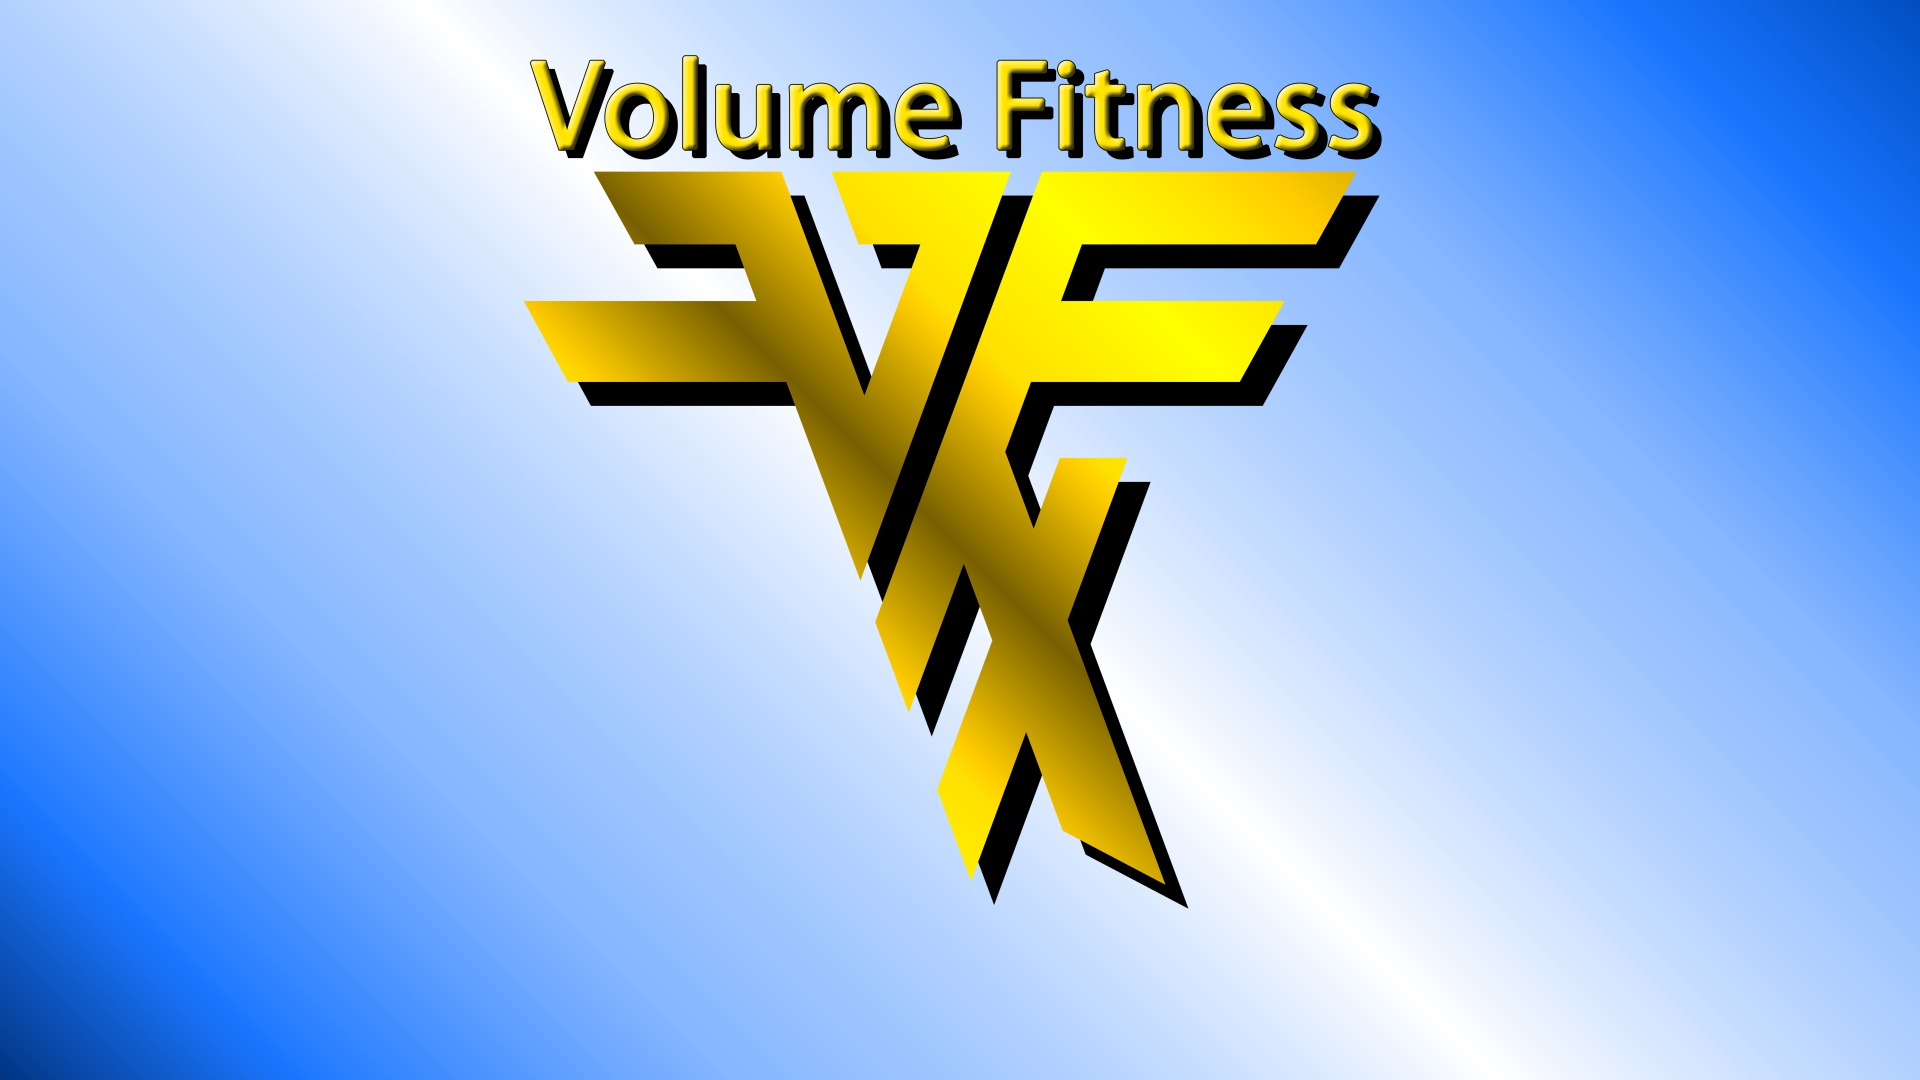
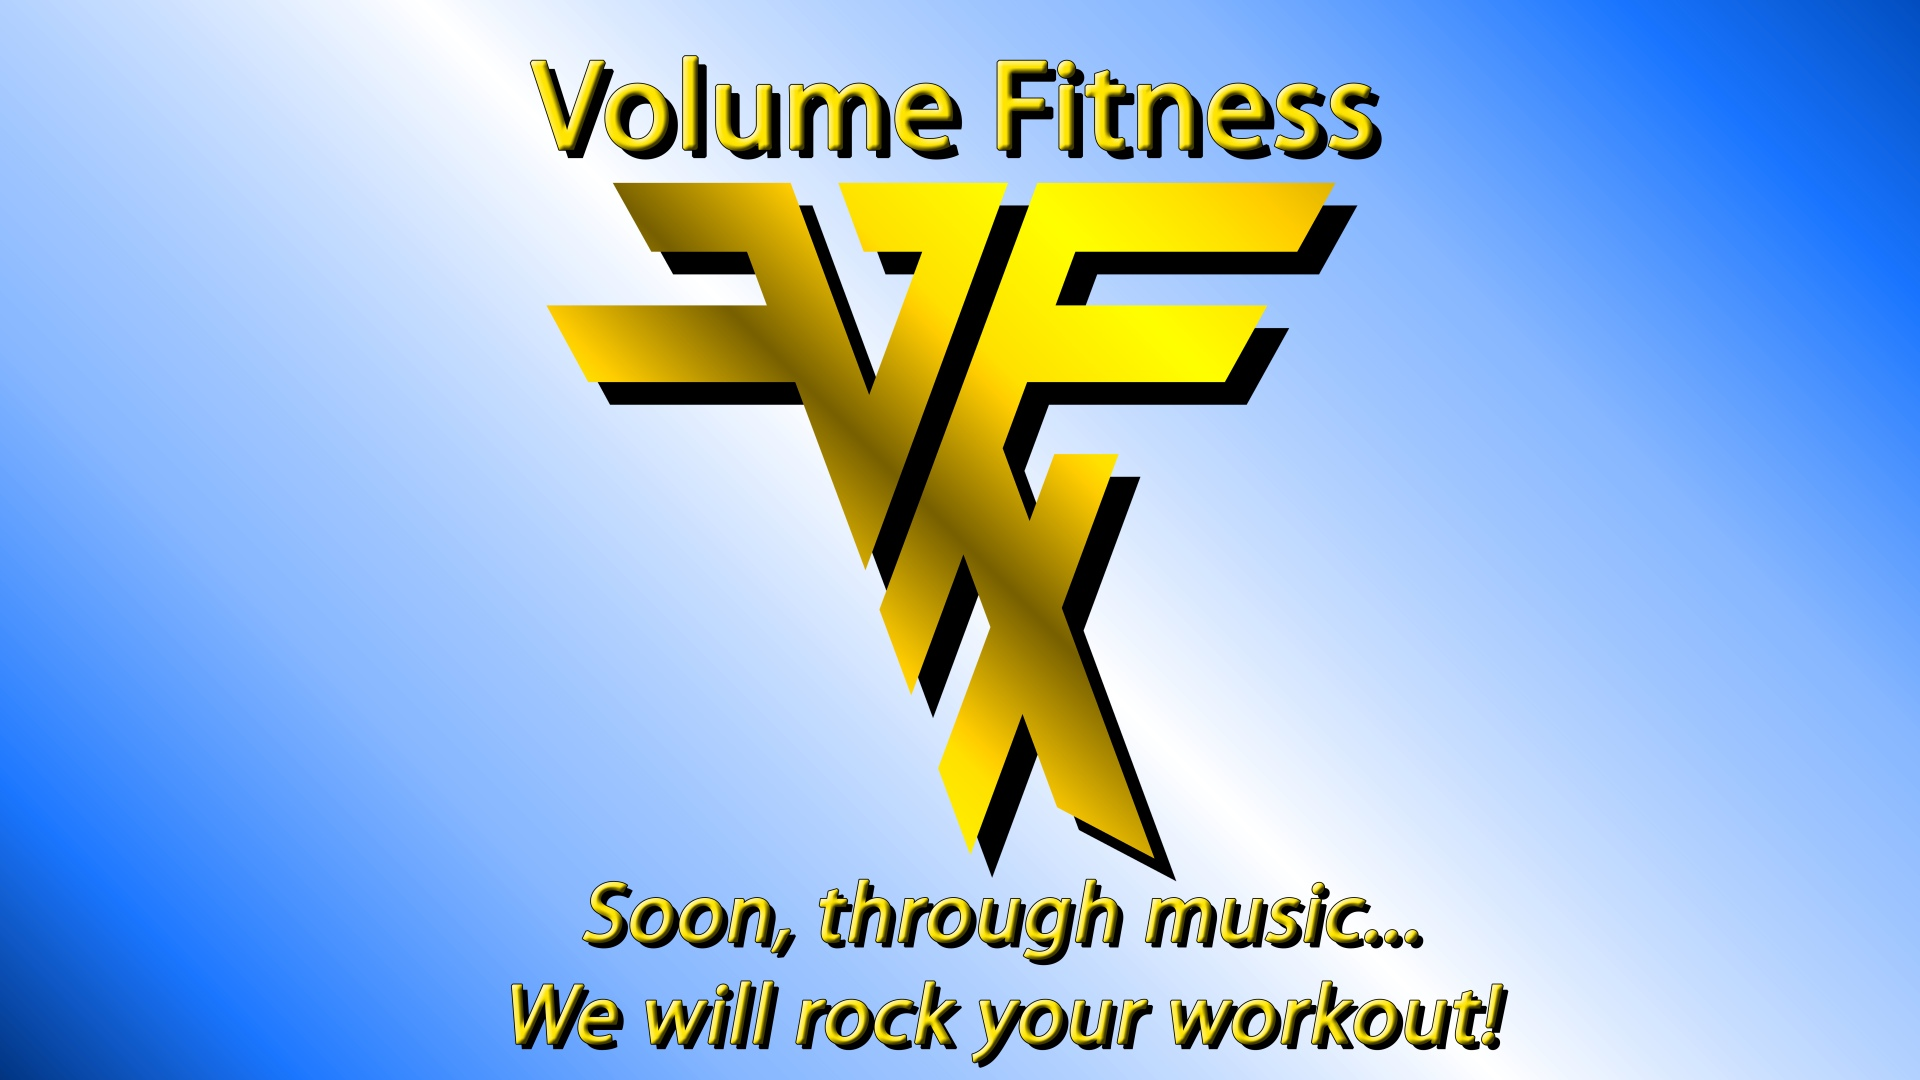
Add files via upload

diff --git a/index.html b/index.html
@@ -27,23 +27,6 @@ body { background-color: black; }
     display: block;
   }
 
-  .overlay-text {
-    position: absolute;
-    bottom: 2%;
-    left: 50%;
-    transform: translateX(-50%);
-    color: gold;
-    font-family: "Myriad Web Pro", sans-serif;
-    font-weight: bold;
-    text-align: center;
-    font-size: 3vw;
-    pointer-events: none;
-
-    text-shadow: 3px 3px 6px black;
-    -webkit-text-stroke: 1px black;
-    text-stroke: 1px black;
-    white-space: nowrap;
-  }
 
   @media (max-width: 768px) and (orientation: portrait) {
     .overlay-text {
@@ -67,9 +50,6 @@ body { background-color: black; }
       <source srcset="bitmaps/image002.jpg" media="(min-width: 768px) and (orientation: landscape)">
       <img id="Picture1" src="bitmaps/image001.jpg" alt="Workout Inspiration">
     </picture>
-    <span class="overlay-text">
-      Soon, through music...<br>We will rock your workout!
-    </span>
   </div>
 </div>
 
